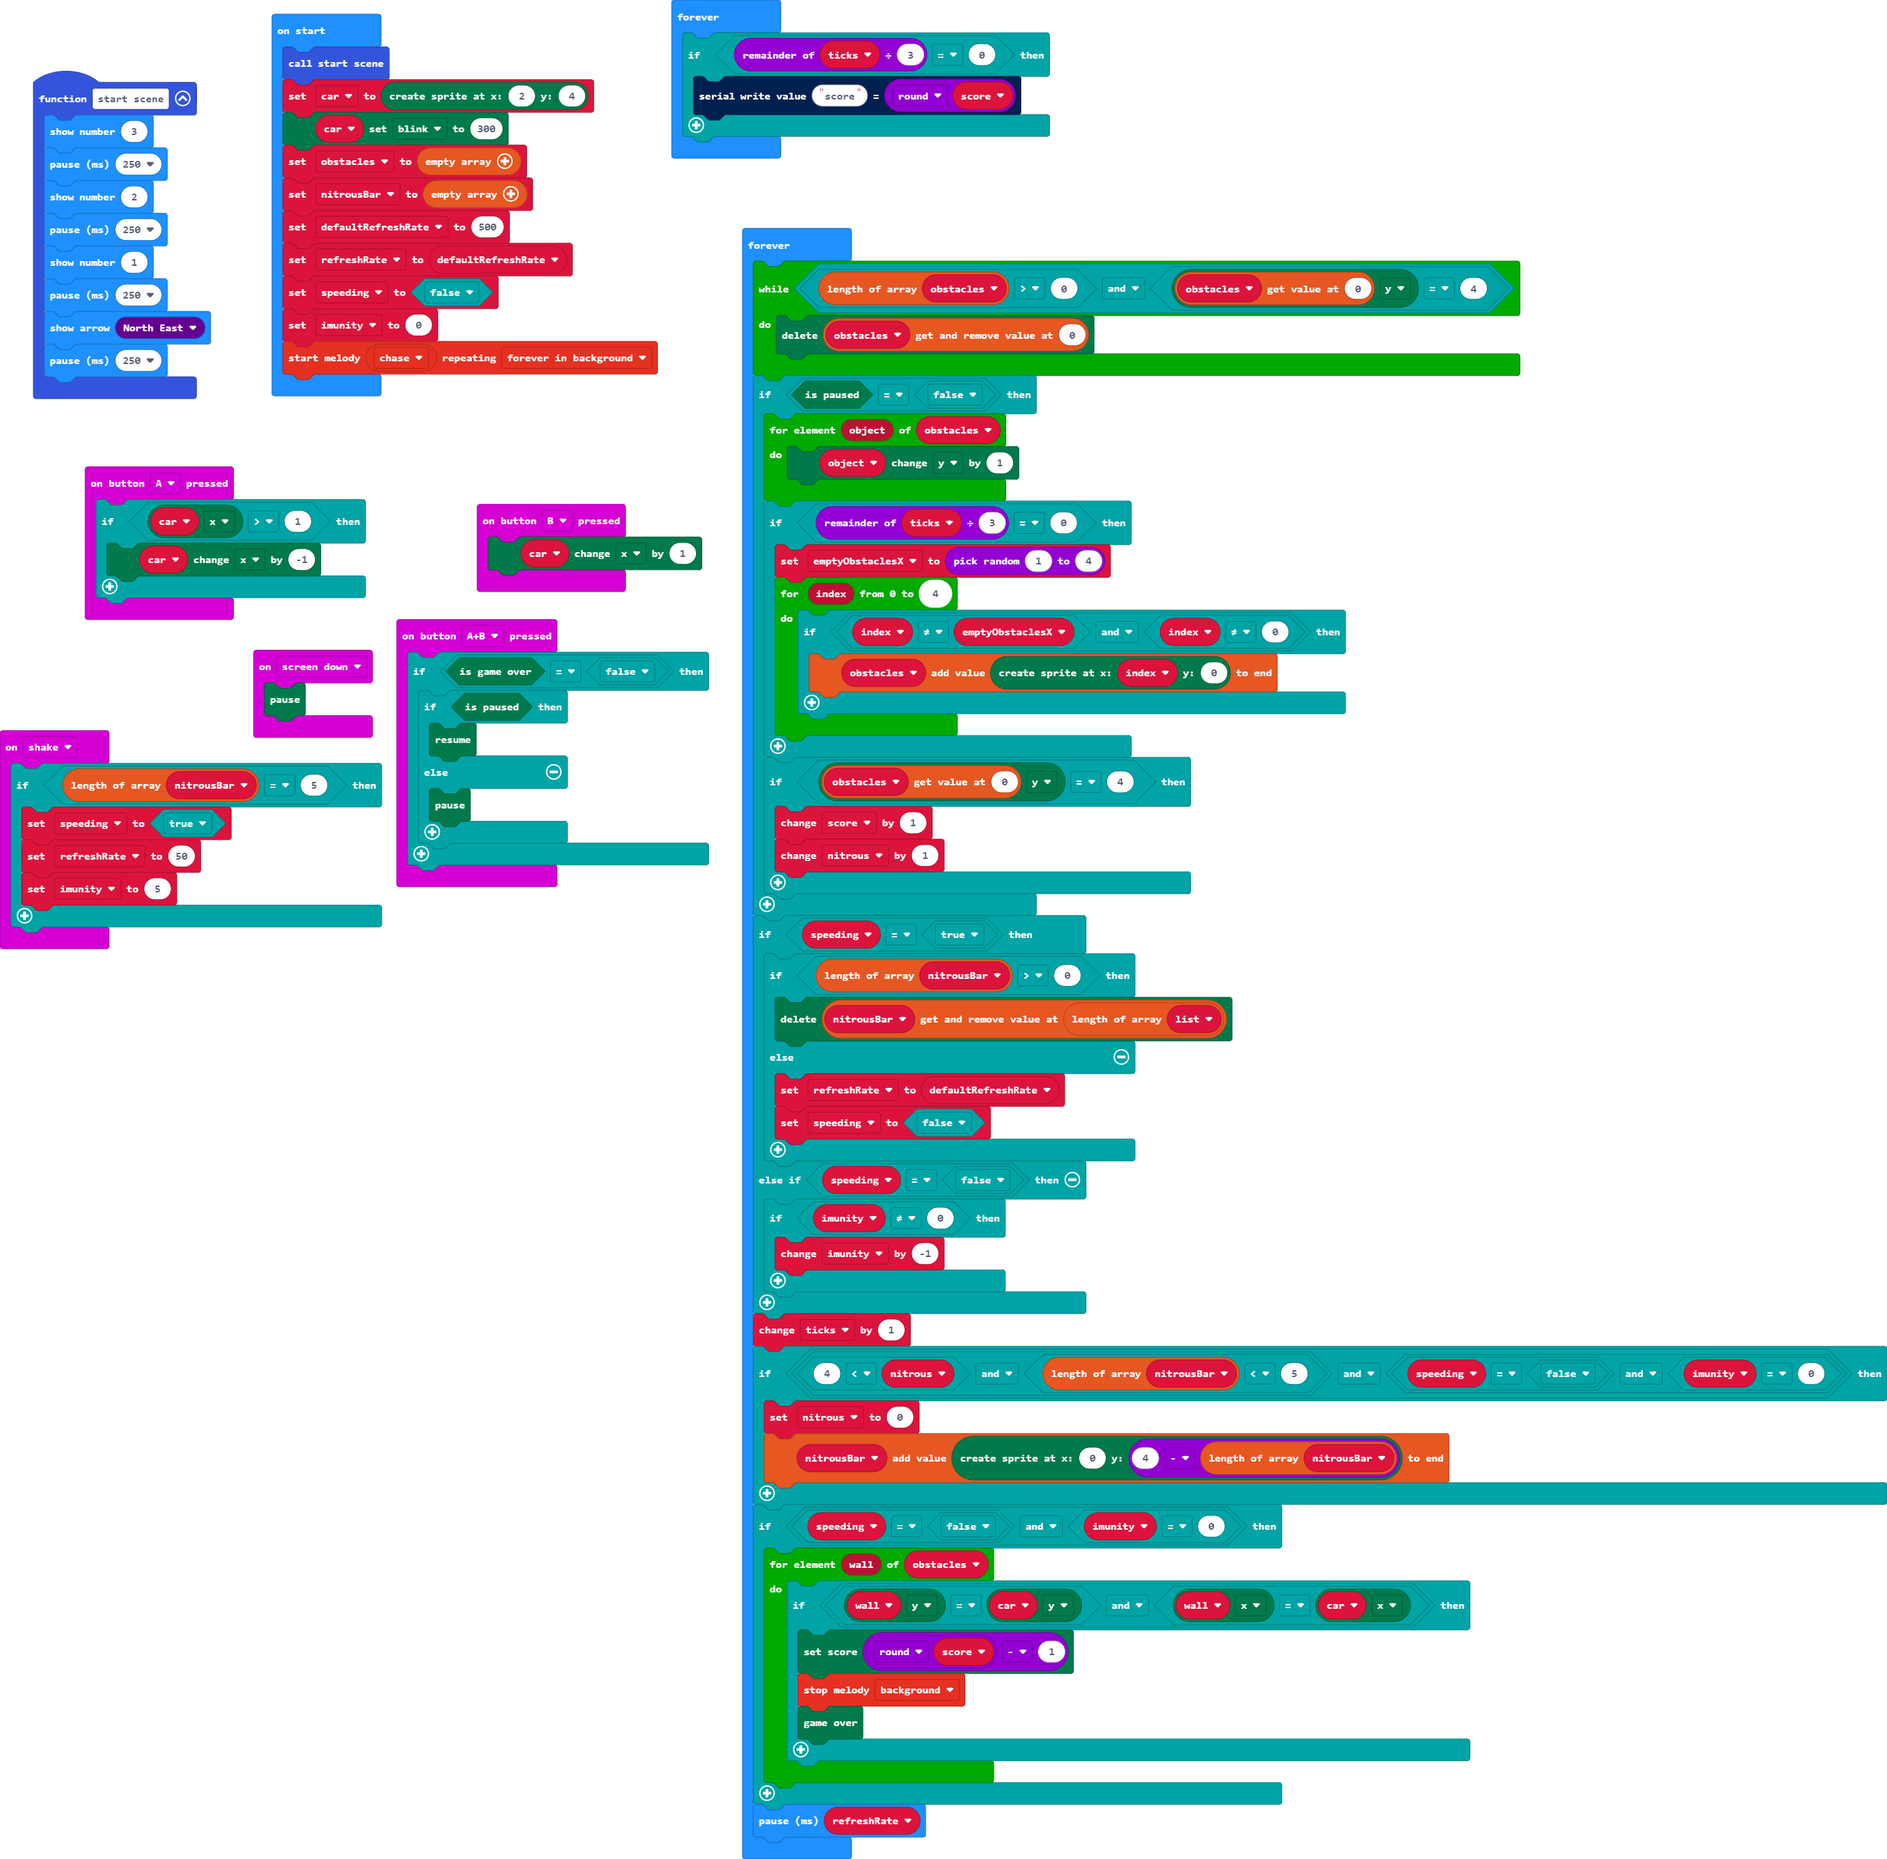
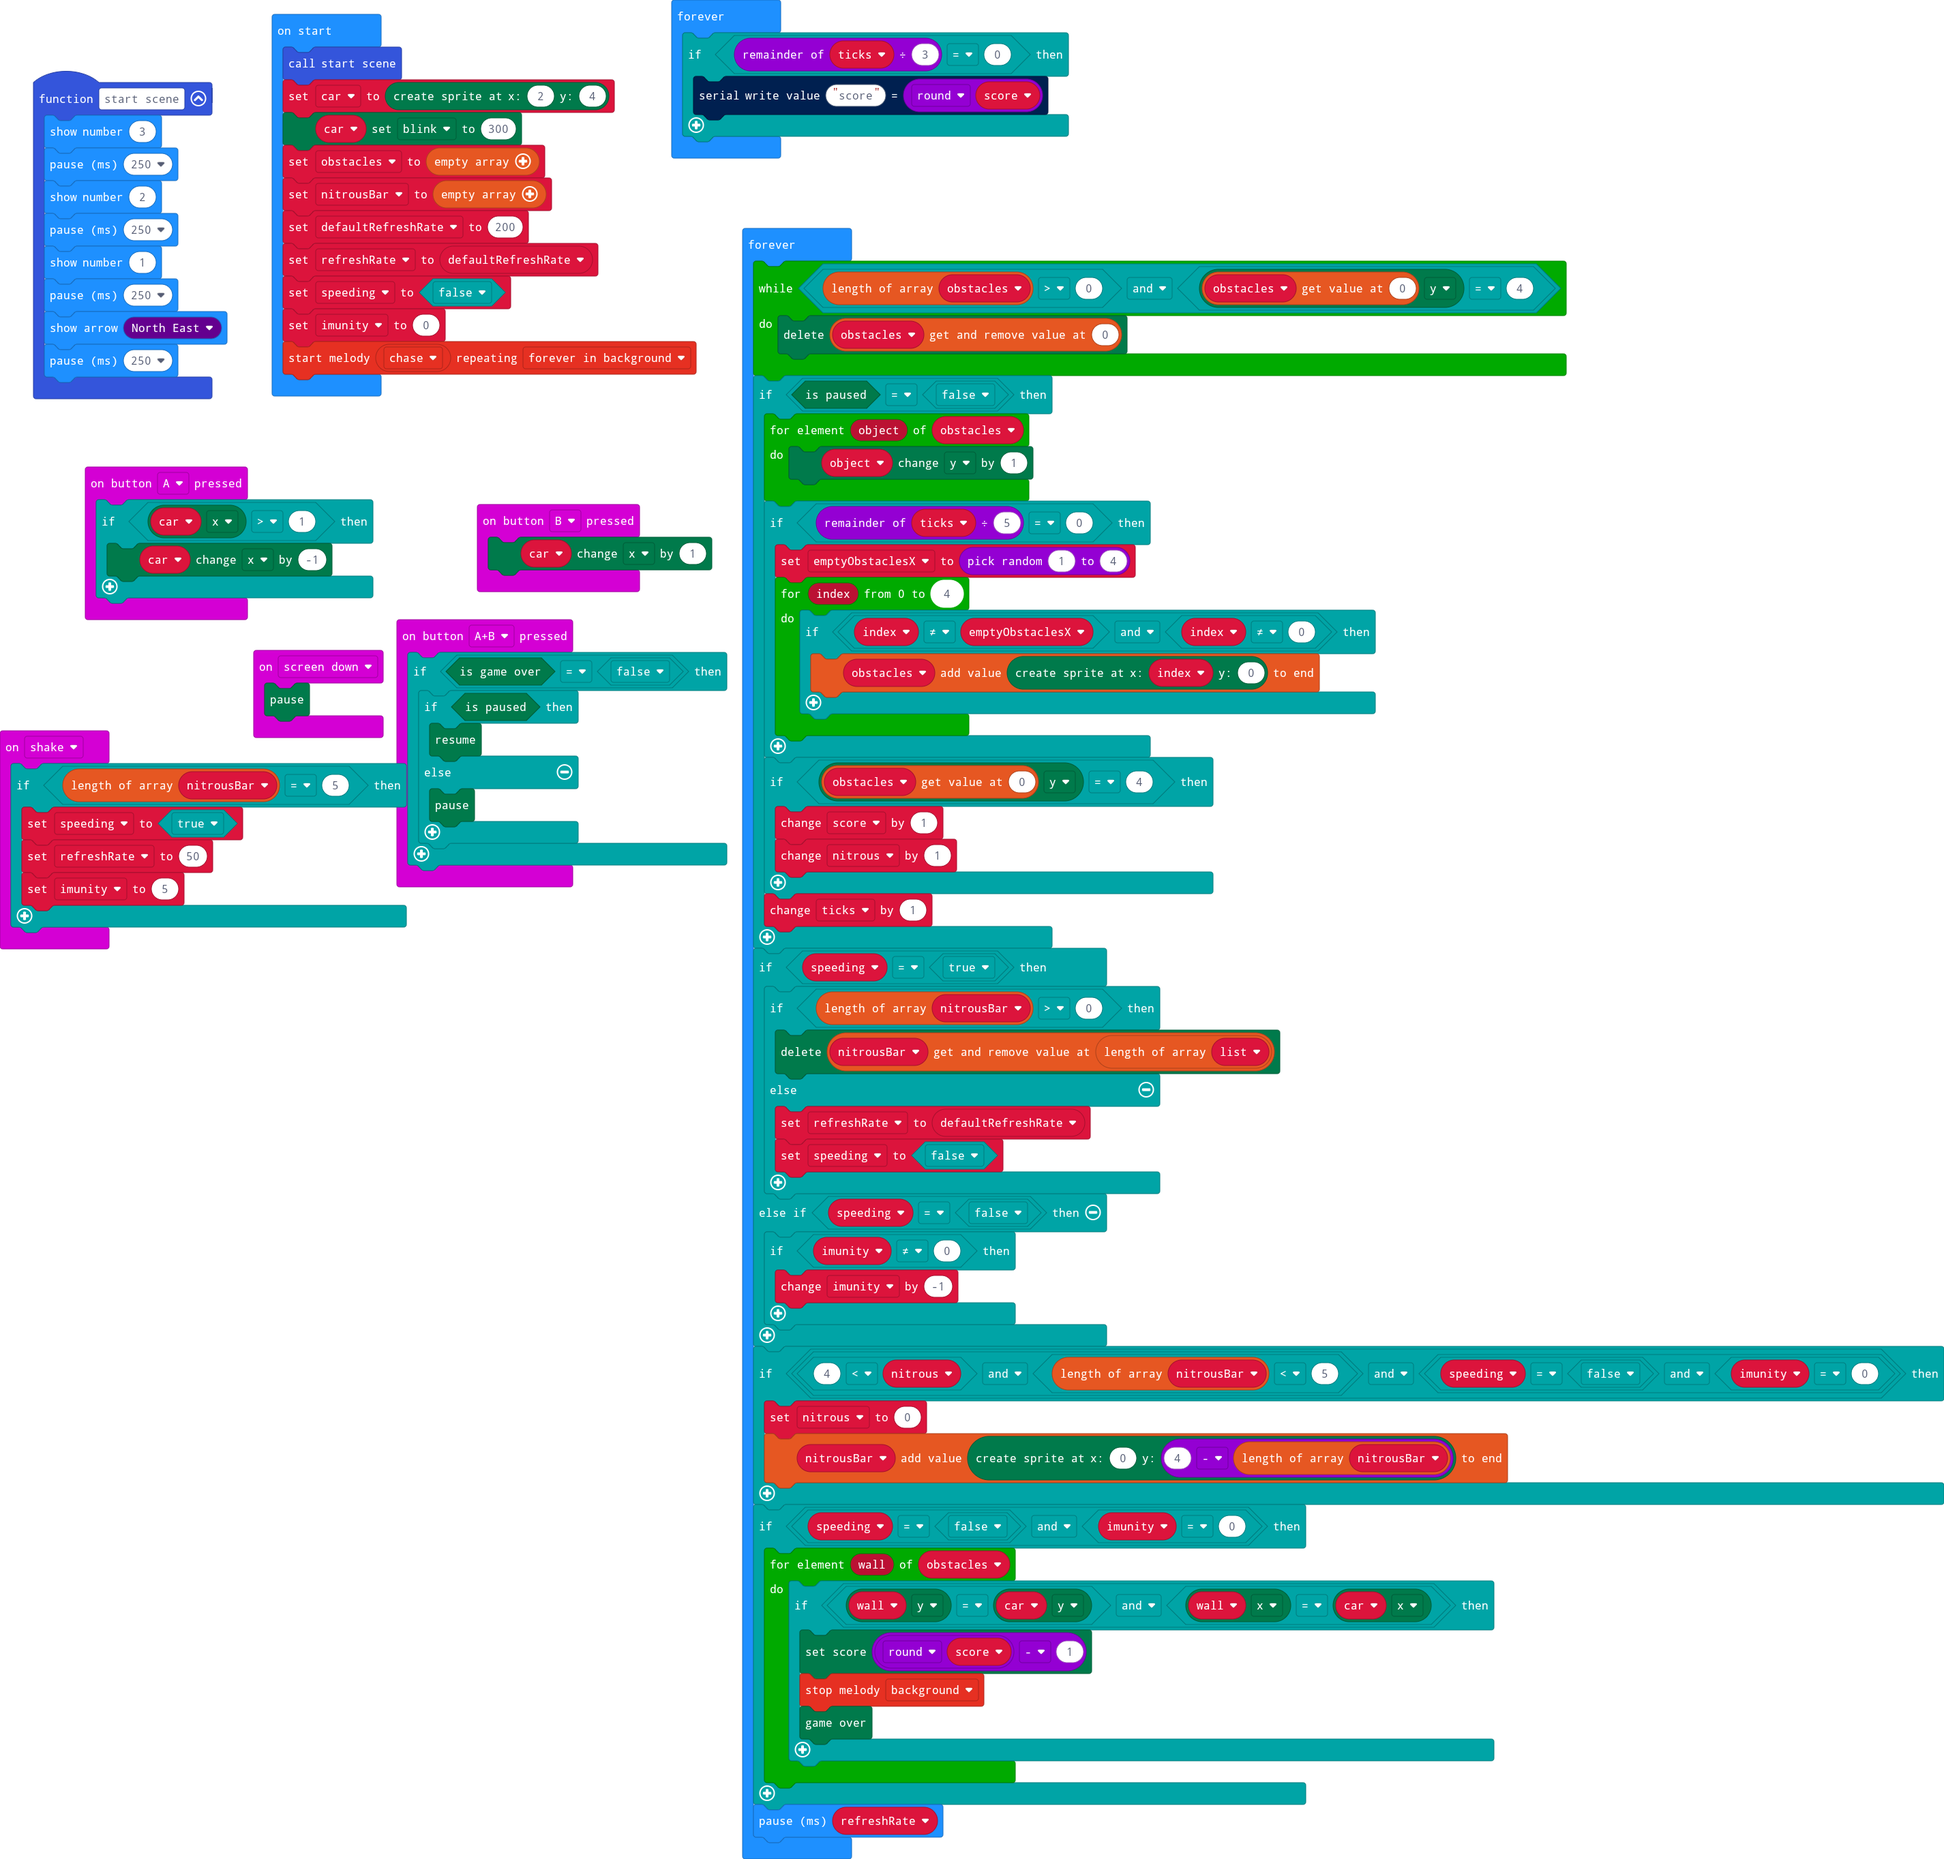
updated speed if game to make more fast paced

diff --git a/main.ts b/main.ts
@@ -49,7 +49,7 @@ car = game.createSprite(2, 4)
 car.set(LedSpriteProperty.Blink, 300)
 let obstacles: game.LedSprite[] = []
 nitrousBar = []
-let defaultRefreshRate = 500
+let defaultRefreshRate = 200
 refreshRate = defaultRefreshRate
 speeding = false
 imunity = 0
@@ -67,7 +67,7 @@ basic.forever(function () {
         for (let object of obstacles) {
             object.change(LedSpriteProperty.Y, 1)
         }
-        if (ticks % 3 == 0) {
+        if (ticks % 5 == 0) {
             emptyObstaclesX = randint(1, 4)
             for (let index = 0; index <= 4; index++) {
                 if (index != emptyObstaclesX && index != 0) {
@@ -79,6 +79,7 @@ basic.forever(function () {
             score += 1
             nitrous += 1
         }
+        ticks += 1
     }
     if (speeding == true) {
         if (nitrousBar.length > 0) {
@@ -93,7 +94,6 @@ basic.forever(function () {
             imunity += -1
         }
     }
-    ticks += 1
     if (4 < nitrous && nitrousBar.length < 5 && (speeding == false && imunity == 0)) {
         nitrous = 0
         nitrousBar.push(game.createSprite(0, 4 - nitrousBar.length))
